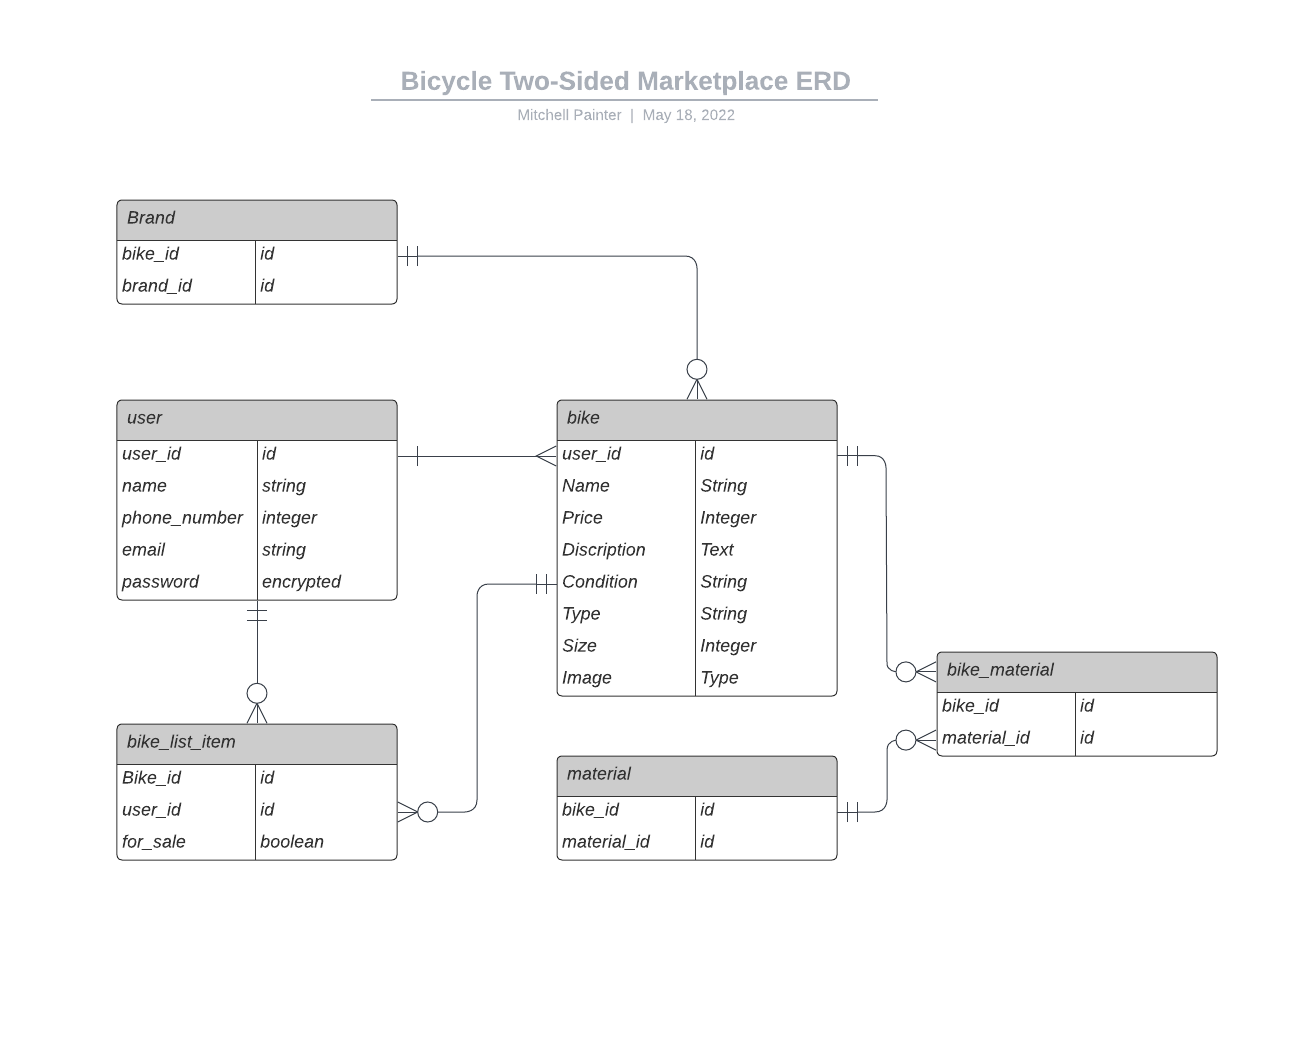
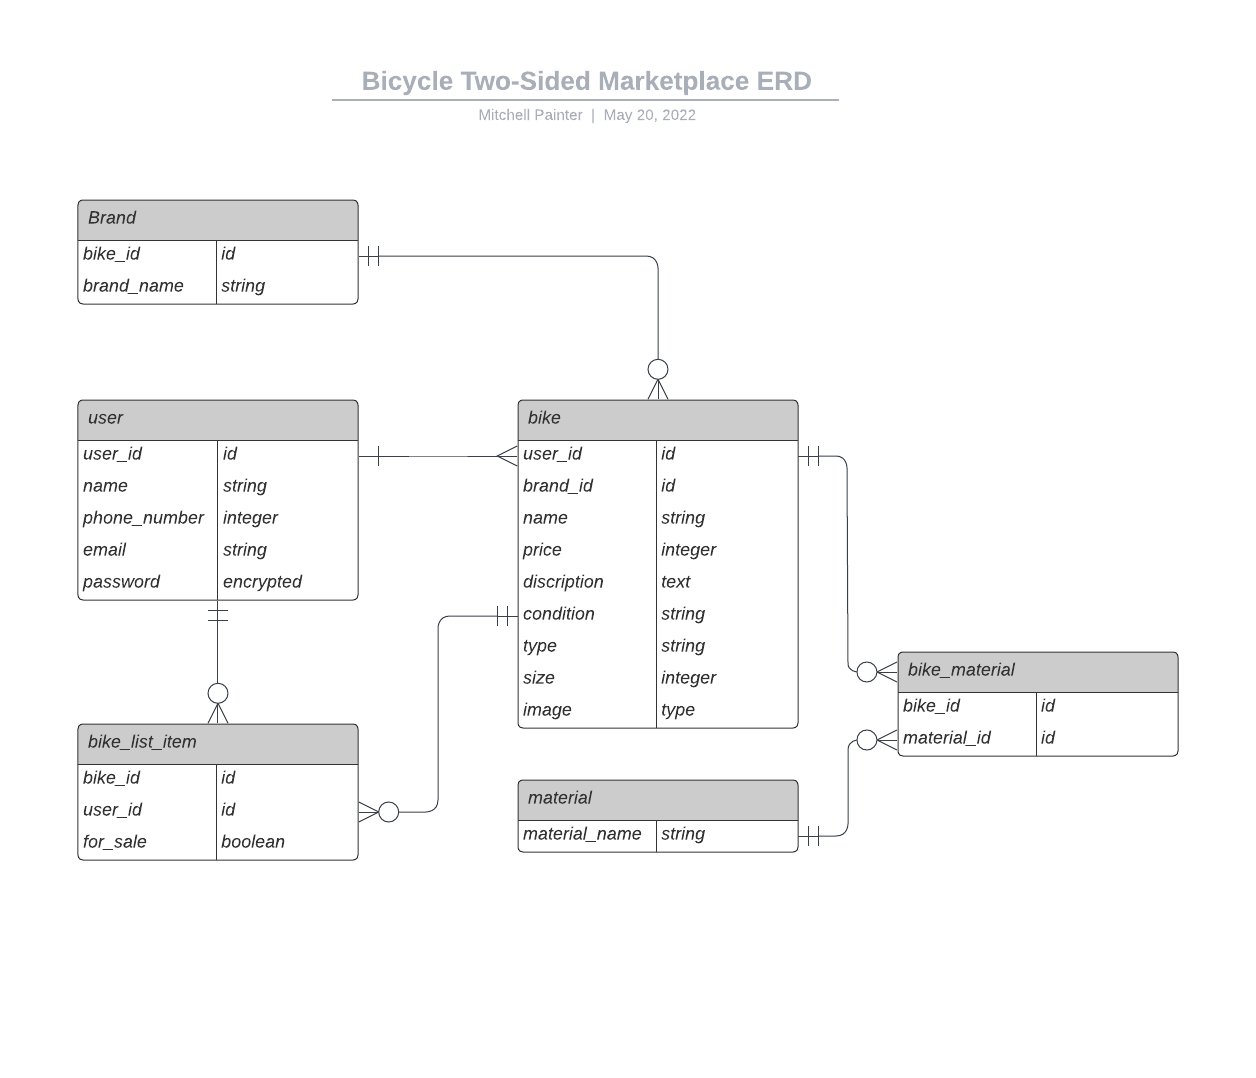
Final Commit

diff --git a/README.md b/README.md
@@ -19,7 +19,7 @@ https://github.com/mitchpaint11/stokedspokes
 ### Discription:
 This marketplace app has been built for the purpose of buying and selling used bicycles. The main goal was to provide an easy and enjoyable to use two-sided marketplace with a simple design and a focus on a strong user experience. It is a two-sided marketplace with a target audience of cyclists and enthusiasts, where the user could be signed up and logged in as either a seller or a buyer. When logged in as a seller, the user is given authorisation and access to the app with the ability to view, add, edit, and delete bikes. Within the add view, a seller has the ability to add a used bike for sale and is given the opportunity to fill out the given fields to provide as much detail as possible for the buyer to make an informed decision. These fields include; Name, Price, Brand, Condition, Bike Type, Size(cm), Material, and Description, with the added benefit of image uploading capabilities, to help display the given bicycle or product. The edit view, allows the seller to access and edit the aforementioned description fields to maintain and provide the most up to date information. When logged in as a buyer, the user is given the authorisation and access to view all bicycles that are on the platform for sale as well as any related descriptive information and pricing details, however, does not have the authorisation to add, edit or delete a bicycle.
 
-There are some features or functionality that could be added to make this app more efficient, however, at this stage of the development process it is kept simple to cover the functionality specifications outlined and still provide an efficient, easy and enjoyable to use application for the world of two-sided marketplaces and the cycling community.
+There are some features or functionality that could be added to make this app more efficient, however, at this stage of the development process, it is kept simple to cover the functionality specifications outlined and still provide an efficient, easy and enjoyable to use application for the world of two-sided marketplaces and the cycling community
 
 
 ### SiteMap:
@@ -72,7 +72,7 @@ There are some features or functionality that could be added to make this app mo
 
 "As a User, I need the ability to make an account and login/out, so I can keep my information safe."
 
-https://trello.com/b/4OCG9ZzS/marketplace-application
+[Trello/UserStories](https://trello.com/b/4OCG9ZzS/marketplace-application).
 
 <img src="app/assets/images/Userstories.png" alt="Userstories" width="700"/>
 
@@ -91,34 +91,41 @@ https://trello.com/b/4OCG9ZzS/marketplace-application
 <img src="app/assets/images/ERD.png" alt="ERD" width="700"/>
 
 #### R15
-There are six high level components or abstractions that make up this application, and the relationships they have with one another are extremely important. These components consist of many attributes that assist this postrgresql relational database in defining their functions and achieving the desired outcomes. These components are as follows,
+There are six high-level components or abstractions that make up this application, and the relationships they have with one another are extremely important. These components consist of many attributes that assist this PostgreSQL relational database in defining its functions and achieving the desired outcomes. These components are as follows,
 
--   Bike: As bicycles are the main product and focus of this application, the bike model is one of the most important. The bike model consists of many attributes such as, user_id, brand_id, name, price, discription, condition, type, size and image, that all assist in controlling how the bicycles information is displayed for the user. The bike model has it's own controller, called bikes_controller, where the CRUD specifics and their required functions and parameters are defined. These include, index, show, new, create, edit, update, destroy, and authorisation checks. 
+-   Bike: As bicycles are the main product and focus of this application, the bike model is one of the most important. The bike model consists of many attributes such as user_id, brand_id, name, price, description, condition, type, size and image, which all assist in controlling how the bicycle information is displayed to the user. The bike model has its own controller, called bikes_controller, where the CRUD specifics and their required functions and parameters are defined. These include, index, show, new, create, edit, update, destroy, and authorisation checks. 
   
--   User: As this is a two-sided marketplace there are two types of users, a seller and a buyer, these users are defined by the attributes outlined in the user model. These attributes include, user_id, name, email, and password. This user model also assists in providing different roles to certain users which in this applications case is a seller or admin role with full authorisation and access to all capabilities, and the buyer role, with access to the index and show views with limited capabilities.
+-   User: As this is a two-sided marketplace there are two types of users, a seller and a buyer, these users are defined by the attributes outlined in the user model. These attributes include user_id, name, email, and password. This user model also assists in providing different roles to certain users which in the case of this application is a seller or admin role with full authorisation and access to all capabilities, and the buyer role, with access to the index and show views with limited capabilities.
 
--   Brand: In order to assist in the simplicity and ease of use, brand was implemented as its own model to assist in providing and displaying bicycle brands for the user to choose from in the new and edit bike form as a drop down options tab. Brand consists of the bike_id and brand_name attributes.
+-   Brand: To assist in the simplicity and ease of use, the brand was implemented as its own model to assist in providing and displaying bicycle brands for the user to choose from in the new and edit bike form as a drop-down options tab. Brand consists of the bike_id and brand_name attributes.
 
--   Material: Similar to brand, material was implemented as it's own model to assist in providing and displaying bicycle materials for the user to choose from in the new and edit bike form as a drop down options tab. Material consists of the material_name attribute and is linked to the bike model with the use of a join table called bike_material. The bike_material model consists of the attributes bike_id and material_id which in conjunction with the material model assists in catigorising different bikes based on their material.
+-   Material: Similar to brand, material was implemented as its own model to assist in providing and displaying bicycle materials for the user to choose from in the new and edit bike form as a drop-down options tab. Material consists of the material_name attribute and is linked to the bike model with the use of a join table called bike_material. The bike_material model consists of the attributes bike_id and material_id which in conjunction with the material model assists in categorising different bikes based on their material.
 
 #### R16
-This application utilises the third party services of Cloudinary and Heroku. Cloudinary is a provider of cloud-based image and video management services. It enables users to upload, store, manage, manipulate, and deliver images and video for websites and apps. Cloudinary has been utilised within this application to implement the image uploading capabilities provided, allowing a seller to upload an image of their bicycle to assist them in encouraging buyers. Heroku is a cloud platform service, and has been utilised within this application as a means for deployment. please see the Heroku deployed app [here](https://desolate-mountain-51945.herokuapp.com/).
+This application utilises the third party services of Cloudinary and Heroku. Cloudinary is a provider of cloud-based image and video management services. It enables users to upload, store, manage, manipulate, and deliver images and videos for websites and apps. Cloudinary has been utilised within this application to implement the image uploading capabilities provided, allowing a seller to upload an image of their bicycle to assist them in encouraging buyers. Heroku is a cloud platform service and has been utilised within this application as a means for deployment. please see the Heroku deployed app [here](https://desolate-mountain-51945.herokuapp.com/).
 
 #### R17
-When it comes to this applications models in terms of the relationships and active record associations they have with each other, this is how they function. 
--   Bike belongs_to brand, this means that the given bike belongs to the brand that is specified as far as active record is concerned, there can be many brands, however, each bike will belong to one brand. Bike has_many bike_materials, meaning that for each bike there are many possible materials that particular bike could be catagorised in, in this applications case, there are three different materials, Carbon, Alloy, and Steel. Bike also has_many materials through bike_materials, meaning materials are linked to bike through the use of a join table called bike_materials. This allows material to be a model of it's own to assist in further differentiating and specifying different bicycles. Bike has_one_atttached image, which means for each time @bike is called there could be an image attached. 
+When it comes to this application's models in terms of the relationships and active record associations they have with each other, this is how they function. 
+-   Bike belongs_to brand, this means that the given bike belongs to the brand that is specified as far as the active record is concerned, there can be many brands, however, each bike will belong to one brand. Bike has_many bike_materials, meaning that for each bike there are many possible materials that particular bike could be categorised in, in the case of this application, there are three different materials, Carbon, Alloy, and Steel. Bike also has_many materials through bike_materials, meaning materials are linked to bike through the use of a join table called bike_materials. This allows material to be a model of its own to assist in further differentiating and specifying different bicycles. Bike has_one_atttached image, which means for each time @bike is called there could be an image attached. 
 
--   Brand has_many bikes, this means that for each specified brand there could be multiple bikes listed within the application that fall under the same brand_id. However, one bike can only have one brand, hense why, as stated above "bike belongs_to_brand".
+-   Brand has_many bikes, this means that for each specified brand there could be multiple bikes listed within the application that falls under the same brand_id. However, one bike can only have one brand, hence why, as stated above "bike belongs_to_brand".
 
--   Bike_material belongs_to bike, this means that any given bike_material belongs to the bike that is specified as far as active record is concerned, there can be many bikes and there can be many bike materials, however, bike_material belongs_to bike. Bike_material also belongs_to material meaning that bike_material is used as join table for active record to join material with bike, a join table is used due to the many_to_many relationship that is present between bike and material.
+-   Bike_material belongs_to bike, this means that any given bike_material belongs to the bike that is specified as far as the active record is concerned, there can be many bikes and there can be many bike materials, however, bike_material belongs_to bike. Bike_material also belongs_to material meaning that bike_material is used as a join table for the active record to join material with bike, a join table is used due to the many_to_many relationship that is present between bike and material.
 
--   Material has_many bike_materials and has_many bikes, through bike_materials. This means that for each specified material there could be multiple bike_materials listed within the application that fall under the same material_id.
-
+-   Material has_many bike_materials and has_many bikes, through bike_materials. This means that for each specified material there could be multiple bike_materials listed within the application that falls under the same material_id.
 
 #### R18
+As displayed in the ERD above, there are four main entities and two join tables that make up the relational database that has been implemented within this application. The four main entities are user, bike, brand, and material and the two join tables are bike_material and bike_list_item. 
+
+-   User has a one-to-many relationship with bike, and, a one-and only-one to a zero-to-many relationship with bike_list_item.
+-   Bike has a one-and-only-one to a zero-to-many relationship with bike_list_item, and, a one-and-only-one to a zero-to-many relationship with bike_material.
+-   Material has a one-and-only-one to a zero-to-many relationship with bike_material, which has a many-or-zero to a one-and-only-one relationship with bike.
+-   Brand has a one-and-only-one to a zero-to-many relationship with bike
 
 
-
+#### R19
+Please see (R14) to review my ERD that will provide my schema design.
 
 
 #### R20
+Tasks were allocated and tracked throughout this project through the use of a Trello board. All aspects of the application project were broken down into individual tasks and placed into either the to-do, doing, or done lists in order to provide deadlines and assist in achieving set goals. A simple outline of the design goal was placed in the design list, and the application user stories were written and kept in the backlog list within the Trello board. Please see the link to my Trello board [here](https://trello.com/b/4OCG9ZzS/marketplace-application).
